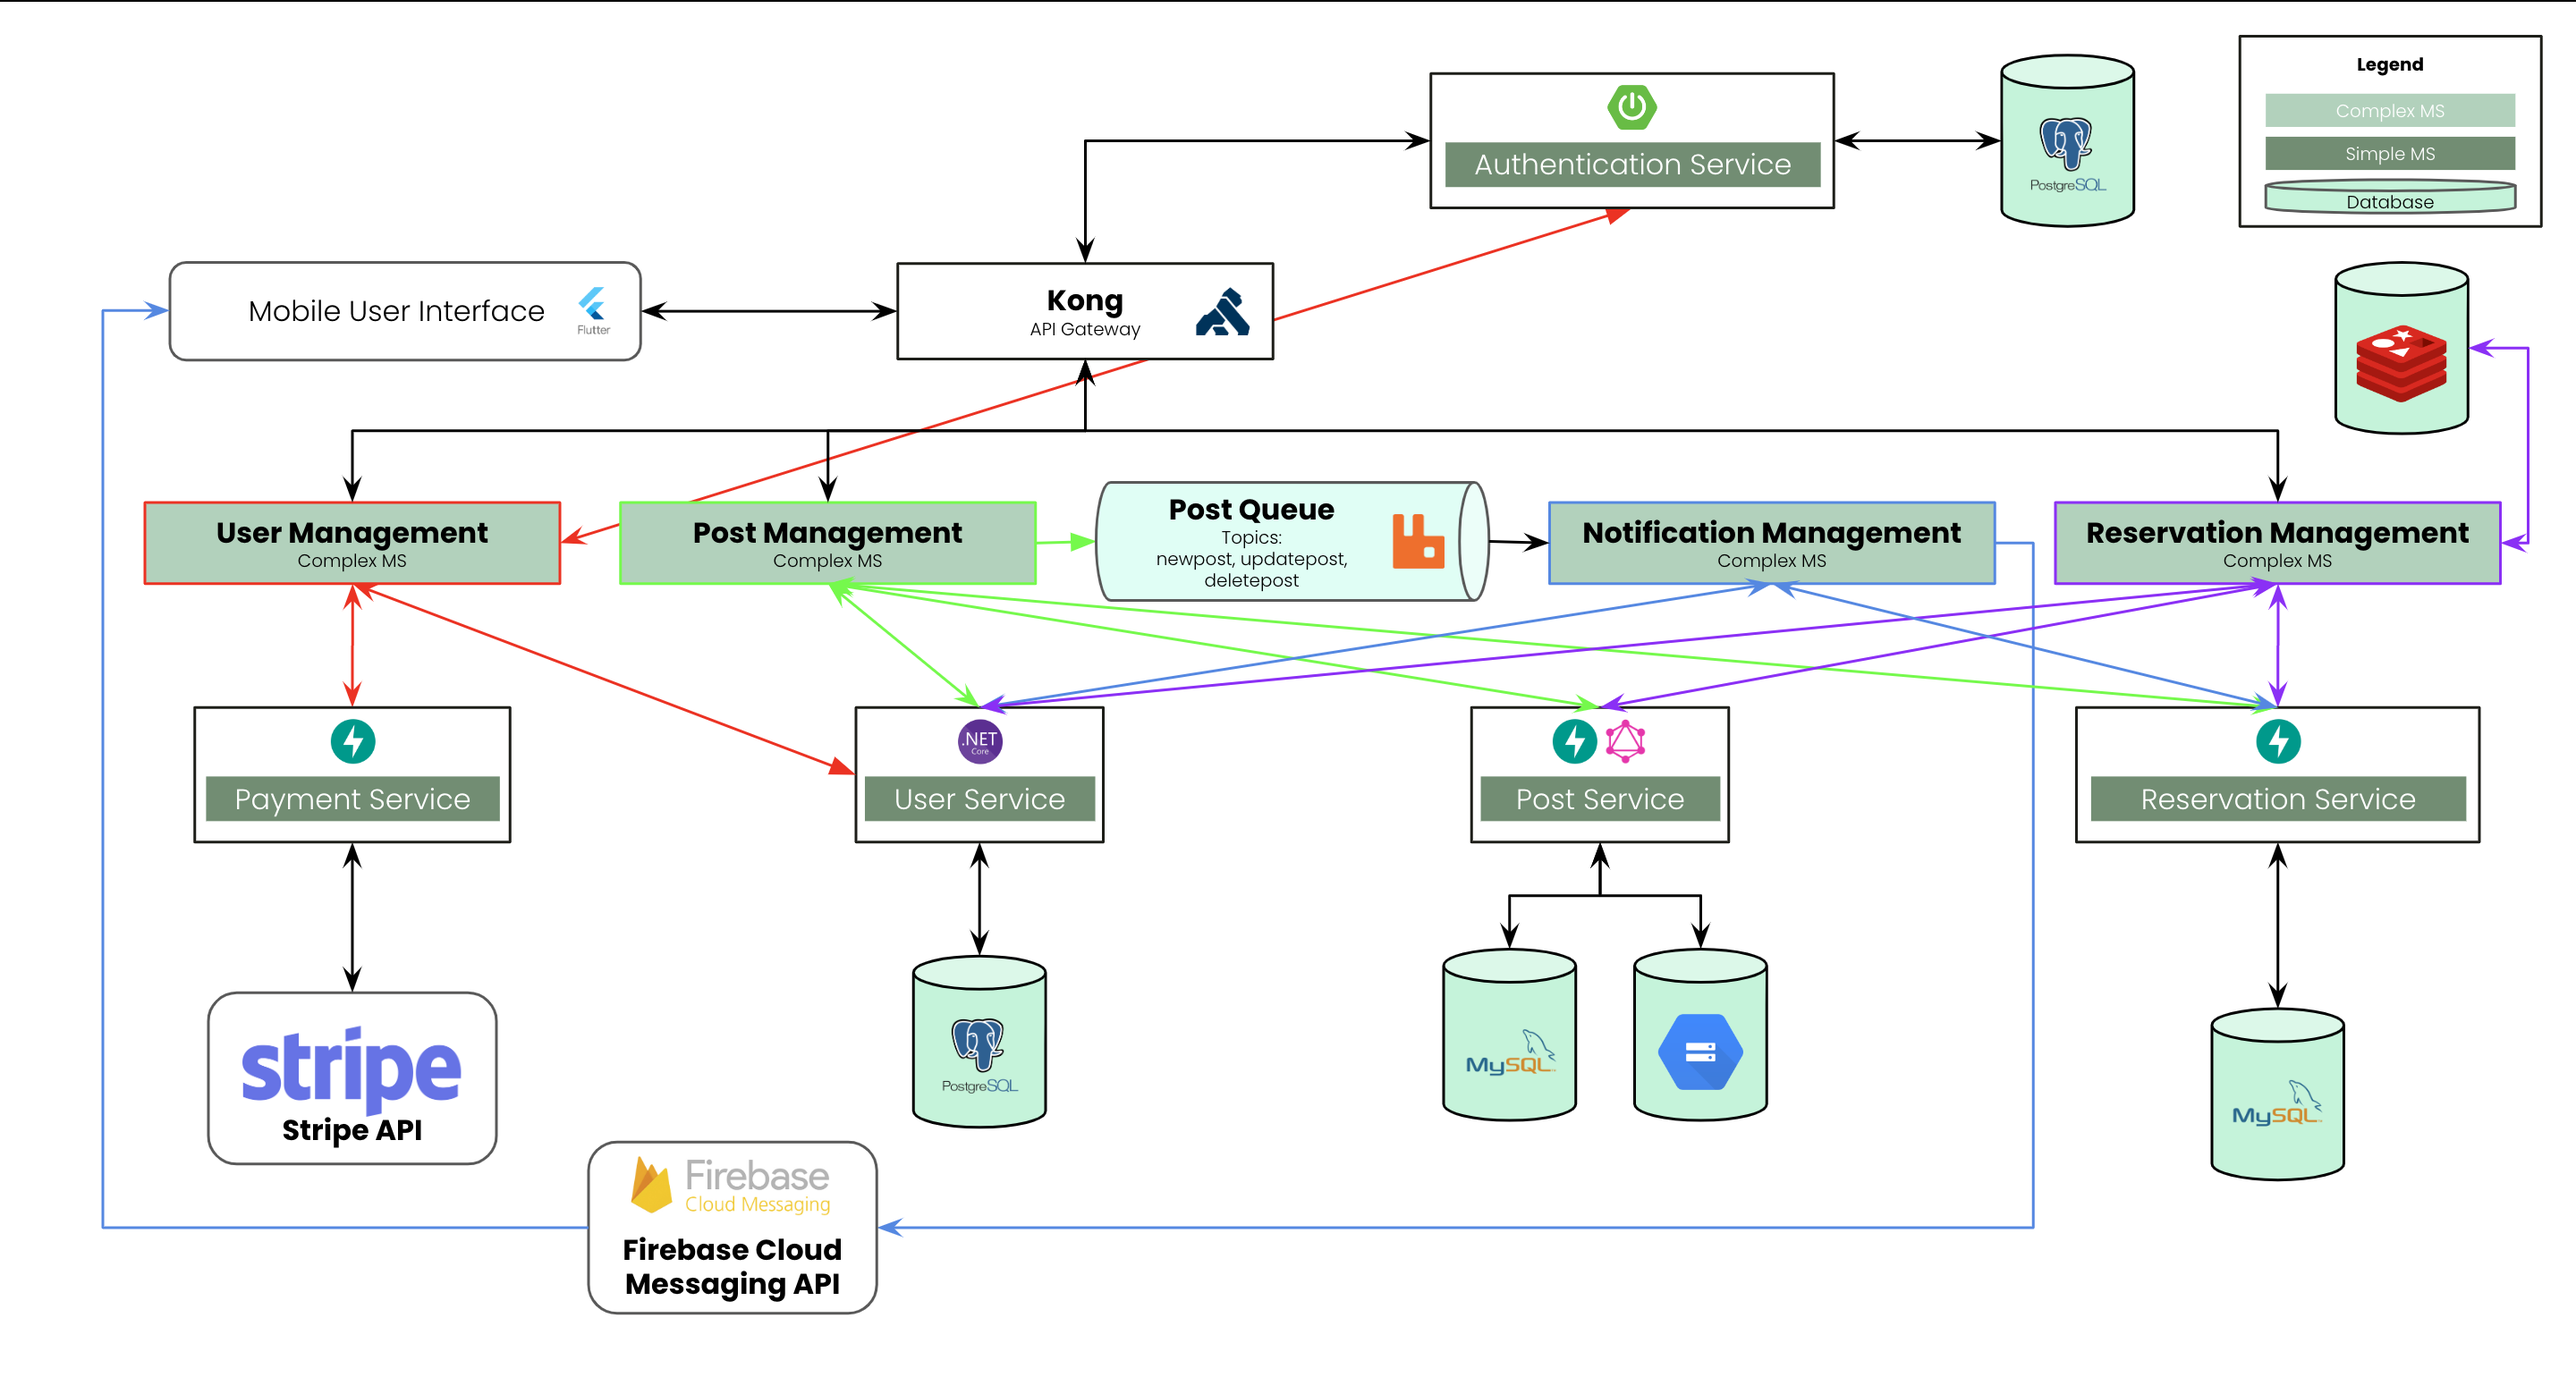
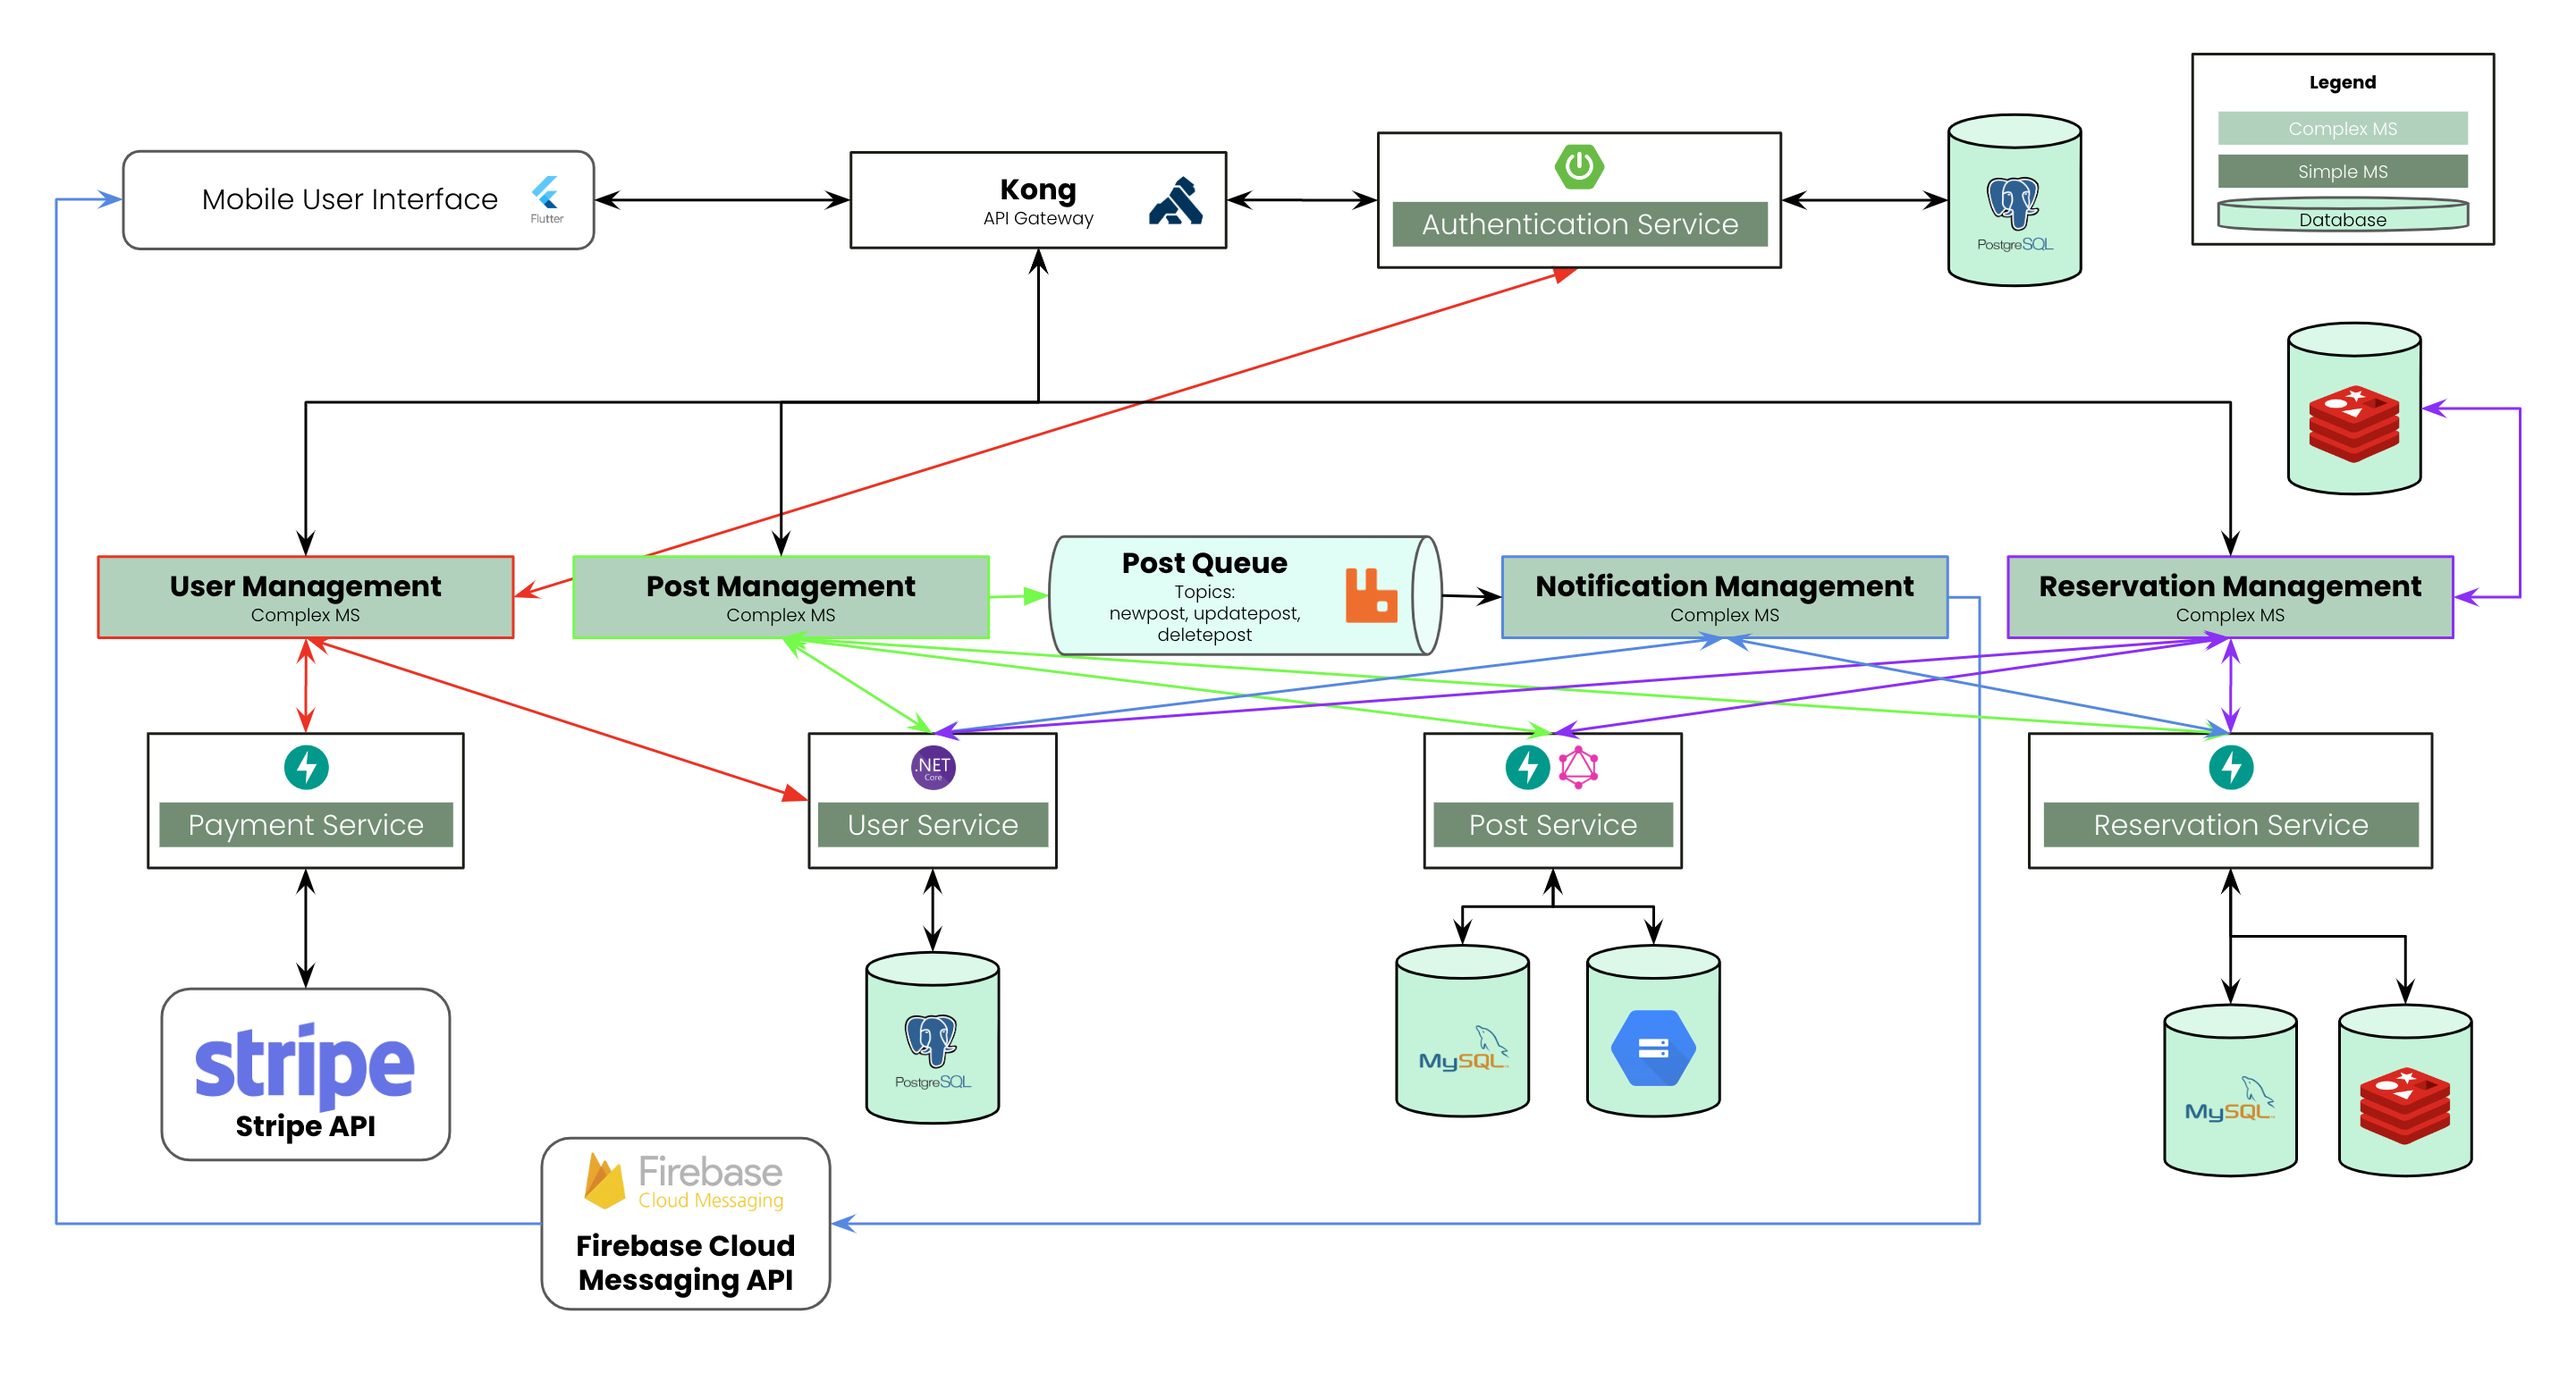
update readme

diff --git a/README.md b/README.md
@@ -2,9 +2,9 @@
 
 Reducing food waste one buffet at a time
 
-1. [API Docs](https://docs.google.com/document/d/1p9xU6xDQlhA96rWvjR7AQRDs3OLuAAEXLBefcChBxCc/edit#)
-2. [Project report](https://docs.google.com/document/d/1_VMYmIKxV-ouKZ3y6g-upth47BED7S6Sr370QjmmAiU/edit#)
-3. [Project slides](https://docs.google.com/presentation/d/1PHVv5L6tf0aZxGBe03qdmbyn4Hcb2RM2lkL6T6ADREI/edit#slide=id.g228ed7c04e1_0_135)
+1. [API Docs](https://docs.google.com/document/d/1p9xU6xDQlhA96rWvjR7AQRDs3OLuAAEXLBefcChBxCc)
+2. [Project report](https://docs.google.com/document/d/1_VMYmIKxV-ouKZ3y6g-upth47BED7S6Sr370QjmmAiU)
+3. [Project slides](https://docs.google.com/presentation/d/1uotMHmufZlSzO2_8AwSi_8_G5PUdfa7DnOEs2CoL66I)
 
 # Table of Contents
 
@@ -45,7 +45,9 @@ Food wastage is a severe problem in Singapore, and the amount of food waste has 
 
 <p align="center"><strong>Databases</strong></p>
 <p align="center">
-<a href="https://www.mysql.com/"><img src="https://d1.awsstatic.com/asset-repository/products/amazon-rds/1024px-MySQL.ff87215b43fd7292af172e2a5d9b844217262571.png" alt="MySQL" height="40"/></a>&nbsp;&nbsp;<a href="https://firebase.google.com/"><img src="https://www.gstatic.com/devrel-devsite/prod/vc7c98be6f4d139e237c3cdaad6a00bb295b070a83e505cb2fa4435daae3d0901/firebase/images/lockup.svg" alt="Firebase" width="88"/></a>&nbsp;&nbsp;<a href="https://www.postgresql.org/" ><img src="https://marketplace.workiva.com/sites/marketplace/files/images/logos/postgre-sql-logo-16-7-en.svg" alt="PostgreSQL" height="40"/></a>&nbsp;&nbsp;<a href="https://cloud.google.com/"><img src="https://www.gstatic.com/devrel-devsite/prod/vc7c98be6f4d139e237c3cdaad6a00bb295b070a83e505cb2fa4435daae3d0901/cloud/images/cloud-logo.svg" alt="PostgreSQL" width="88"/></a>&nbsp;&nbsp;<a href="https://redis.com/"><img src="https://redis.com/wp-content/themes/wpx/assets/images/logo-redis.svg?auto=webp&quality=85,75&width=120" alt="Redis" width="88"/></a> 
+<a href="https://www.mysql.com/"><img src="https://d1.awsstatic.com/asset-repository/products/amazon-rds/1024px-MySQL.ff87215b43fd7292af172e2a5d9b844217262571.png" alt="MySQL" height="40"/></a>&nbsp;&nbsp;<a href="https://firebase.google.com/"><img src="https://www.gstatic.com/devrel-devsite/prod/vc7c98be6f4d139e237c3cdaad6a00bb295b070a83e505cb2fa4435daae3d0901/firebase/images/lockup.svg" alt="Firebase" width="88"/></a>&nbsp;&nbsp;<a href="https://www.postgresql.org/" ><img src="https://marketplace.workiva.com/sites/marketplace/files/images/logos/postgre-sql-logo-16-7-en.svg" alt="PostgreSQL" height="40"/></a>&nbsp;&nbsp;<a href="https://cloud.google.com/"><img src="https://www.gstatic.com/devrel-devsite/prod/vc7c98be6f4d139e237c3cdaad6a00bb295b070a83e505cb2fa4435daae3d0901/cloud/images/cloud-logo.svg" alt="PostgreSQL" width="88"/></a>&nbsp;&nbsp;<a href="https://redis.com/"><img src="https://redis.com/wp-content/themes/wpx/assets/images/logo-redis.svg?auto=webp&quality=85,75&width=120" alt="Redis" width="88"/></a>
+<br>
+<i>Redis Cache · Redis Locks</i>
 </p>
 <br>
 
@@ -57,9 +59,9 @@ Food wastage is a severe problem in Singapore, and the amount of food waste has 
 
 <p align="center"><strong>Others</strong></p>
 <p align="center">
-<a href="https://stripe.com/en-gb-sg"><img src="https://upload.wikimedia.org/wikipedia/commons/thumb/b/ba/Stripe_Logo%2C_revised_2016.svg/1280px-Stripe_Logo%2C_revised_2016.svg.png" alt="Stripe Payment API" width="88"/></a>&nbsp;&nbsp;<a href="https://kubernetes.io/"><img src="https://gcloud.devoteam.com/wp-content/uploads/sites/32/2021/10/kubernetes-logo-1-1.svg" alt="Kubernetes" height="44"/></a>&nbsp;&nbsp;<a href="https://www.docker.com/"><img src="https://www.docker.com/wp-content/uploads/2022/03/horizontal-logo-monochromatic-white.png" alt="Docker" width="88"/></a>
+<a href="https://stripe.com/en-gb-sg"><img src="https://upload.wikimedia.org/wikipedia/commons/thumb/b/ba/Stripe_Logo%2C_revised_2016.svg/1280px-Stripe_Logo%2C_revised_2016.svg.png" alt="Stripe Payment API" width="88"/></a>&nbsp;&nbsp;<a href="https://kubernetes.io/"><img src="https://gcloud.devoteam.com/wp-content/uploads/sites/32/2021/10/kubernetes-logo-1-1.svg" alt="Kubernetes" height="44"/></a>&nbsp;&nbsp;<a href="https://argoproj.github.io/cd/"><img src="https://cncf-branding.netlify.app/img/projects/argo/stacked/color/argo-stacked-color.png" alt="ArgoCD" height="50"/></a>&nbsp;&nbsp;<a href="https://docs.pytest.org"><img src="https://upload.wikimedia.org/wikipedia/commons/b/ba/Pytest_logo.svg" alt="PyTest" height="50"/></a>&nbsp;&nbsp;<a href="https://www.docker.com/"><img src="https://www.docker.com/wp-content/uploads/2022/03/horizontal-logo-monochromatic-white.png" alt="Docker" width="88"/></a>
 <br>
-<i>Firebase Cloud Messaging · Docker Compose · GCP Google Kubernetes Engine · GCP Artifact Registry</i>
+<i>Docker Compose · Firebase Cloud Messaging · GCP Google Kubernetes Engine · GCP Artifact Registry</i>
 </p>
 <br>
 
@@ -83,7 +85,7 @@ Refer to [mobile](mobile/README.md) for more details.
 
 ### Set-up Backend Services
 
-Our backend services are deployed at http://gobbler.world.
+Our backend services are deployed at https://gobbler.world.
 Refer to [backend](backend/README.md) for more details.
 
 # Contributors
